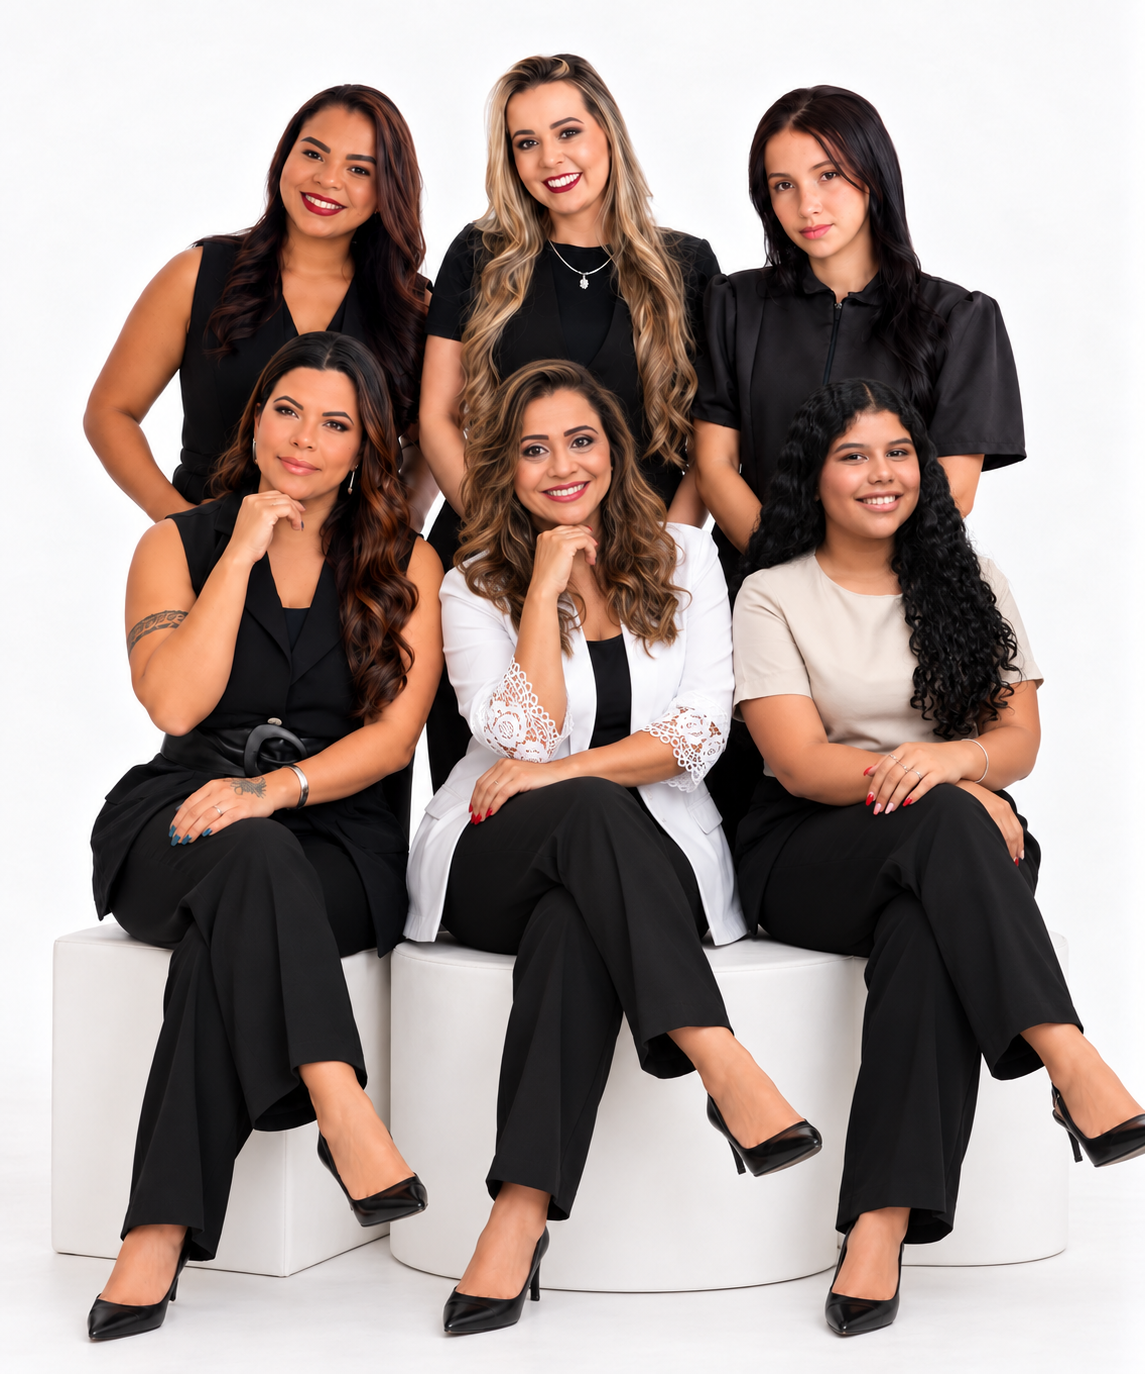
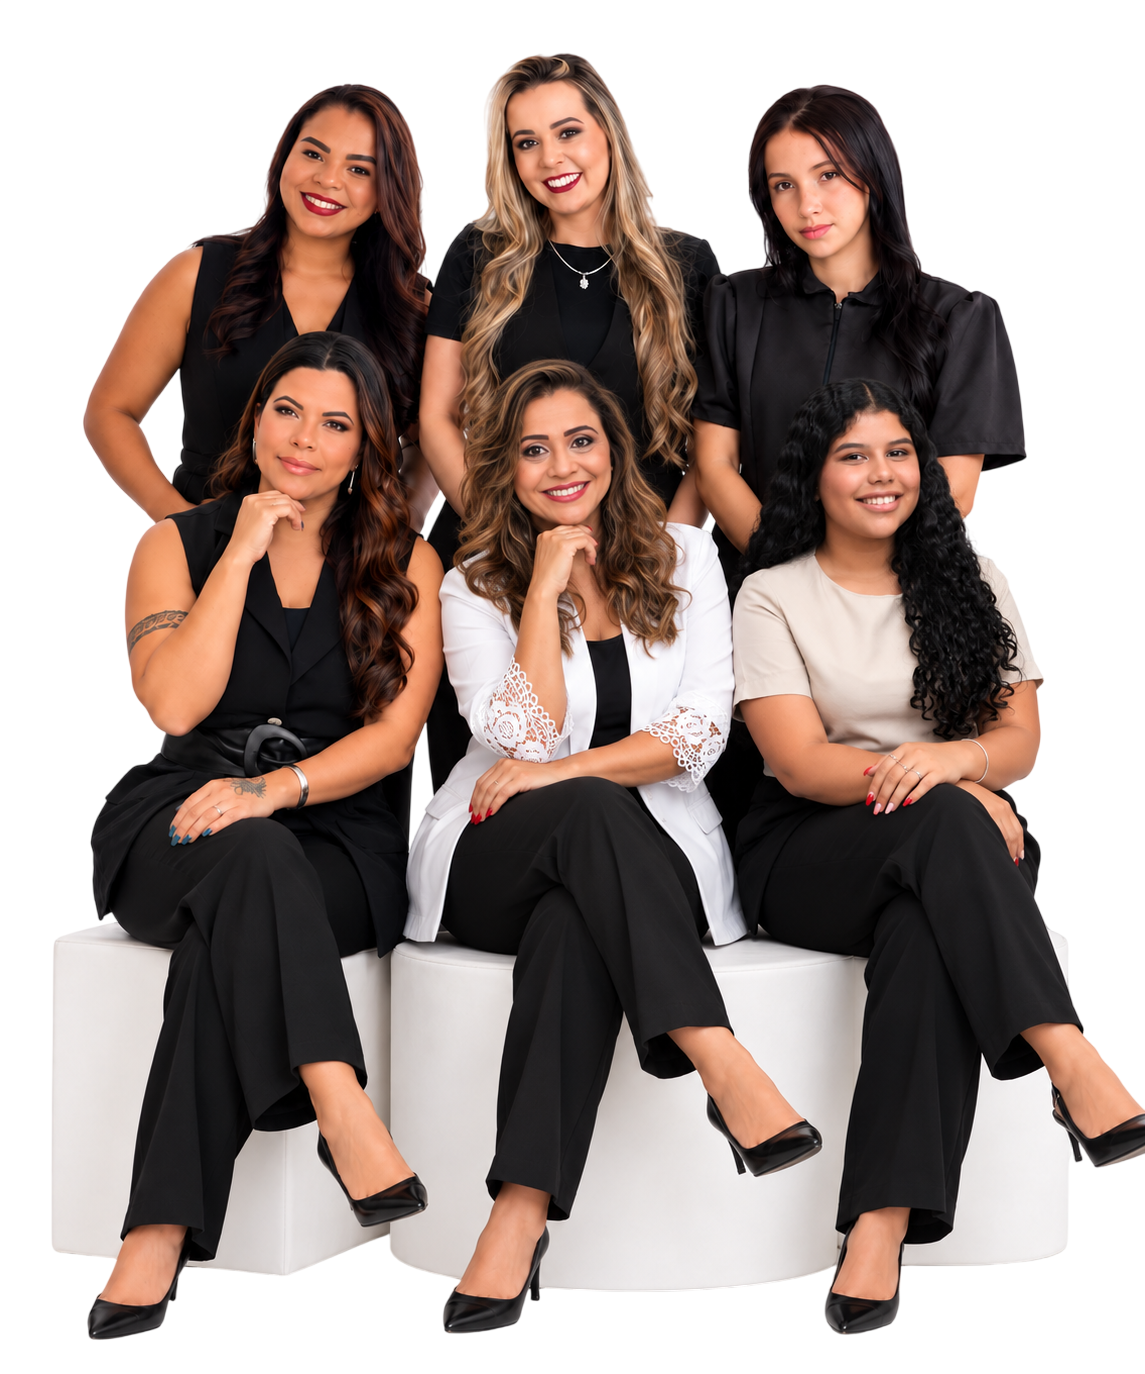
style: atualizar imagem transparente do hero e definir fundo branco nos cards das profissionais

Changed region(s): [[0.0306, 0.8865, 0.8865, 0.9782]]

diff --git a/src/components/LandingPage.tsx b/src/components/LandingPage.tsx
@@ -222,7 +222,7 @@ export default function LandingPage({ onOpenBooking, onNavigateToAdmin, professi
               <img 
                 src="/team/HERO.png" 
                 alt="Profissionais Cuidare" 
-                className="h-full w-auto max-w-full object-contain object-bottom origin-bottom-right scale-105 lg:scale-110 xl:scale-115 mix-blend-multiply" 
+                className="h-full w-auto max-w-full object-contain object-bottom origin-bottom-right scale-105 lg:scale-110 xl:scale-115" 
                 style={{ objectPosition: 'right bottom' }}
               />
             </div>
@@ -443,7 +443,7 @@ export default function LandingPage({ onOpenBooking, onNavigateToAdmin, professi
               return (
                 <div key={prof.id} className="flex flex-col">
                   {/* Portrait setup: Real photo if available, or clean typographic monogram placeholder */}
-                  <div className="aspect-[4/5] bg-[#F7F2EA] flex flex-col justify-end p-6 relative border border-border-subtle group overflow-hidden rounded-sm">
+                  <div className="aspect-[4/5] bg-white flex flex-col justify-end p-6 relative border border-border-subtle group overflow-hidden rounded-sm">
                     {prof.photoUrl ? (
                       <img 
                         src={prof.photoUrl} 
